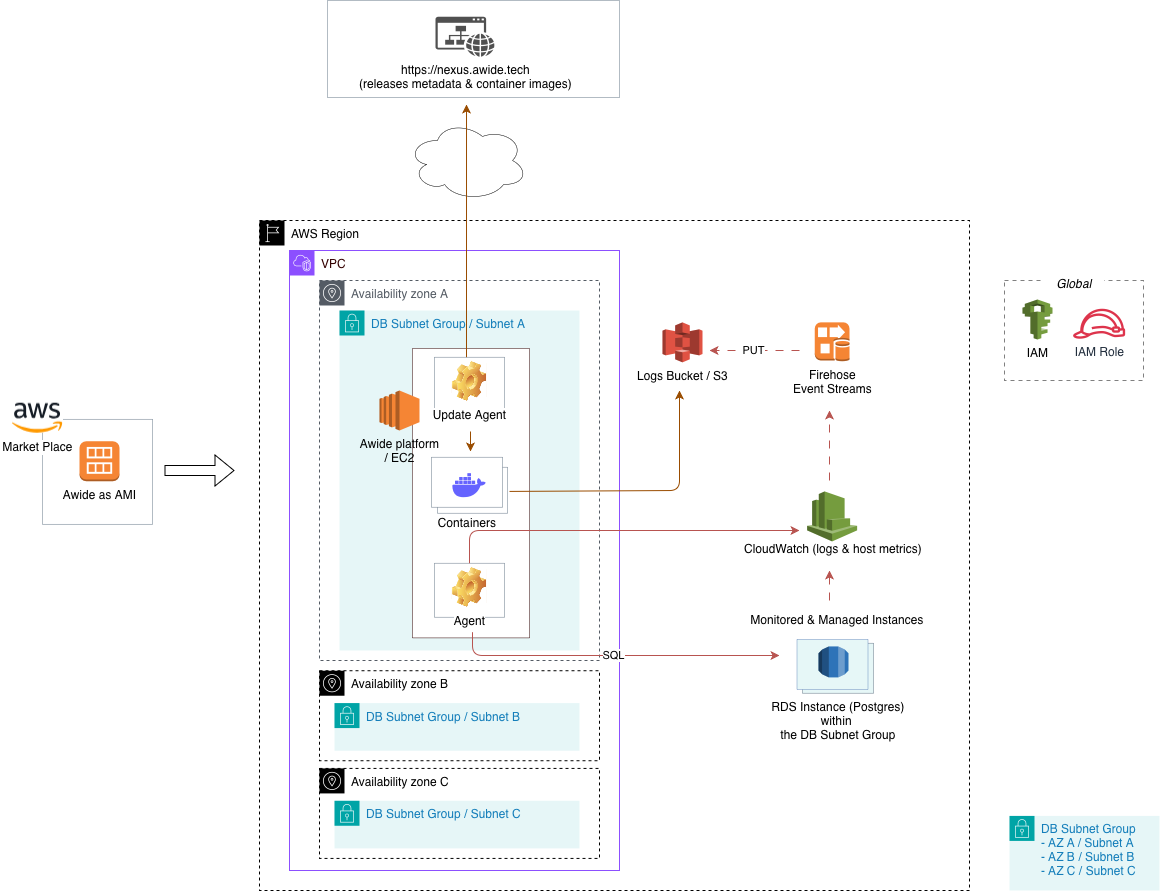
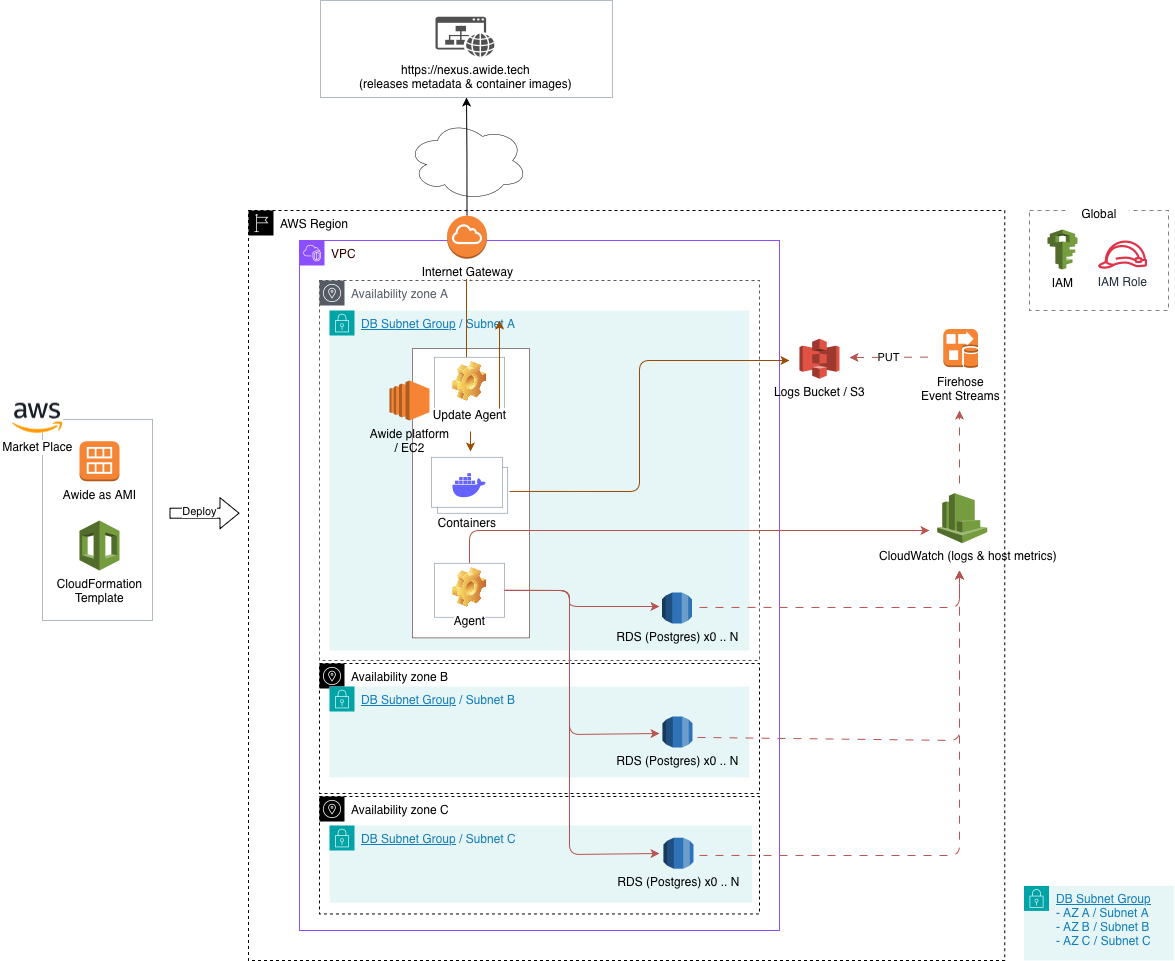
fix doc

diff --git a/suite_deploy/etc/letsencrypt/Documentation.md b/suite_deploy/etc/letsencrypt/Documentation.md
@@ -1,0 +1,116 @@
+## Let's Encrypt Certificate Automation
+
+## Foreword
+
+This guide was written for operators who want certificate management to be predictable, and low-maintenance. The goal is not just to obtain a certificate once, but to keep TLS healthy over time without relying on manual reminders.
+
+The two scripts in this folder reflect that approach. One handles the first-time issuance path, and the other performs routine checks so renewals happen before expiry and updated files are rotated into the running stack. Together, they provide a simple operational baseline that can be adopted quickly and audited easily.
+
+If you are onboarding this into a new environment, use this document as an execution playbook first, then as a reference during maintenance windows and post-incident reviews.
+
+This folder contains two scripts that work together:
+
+- `cert_issue.sh` for first-time certificate issuance.
+- `cert_daily_check.sh` for ongoing renewal checks and certificate refresh.
+
+The overall idea is simple: issue once, then let the daily check renew and rotate cert files automatically before expiry.
+
+## Script 1: `cert_issue.sh` (Initial certificate setup)
+
+Use this script when a certificate does not exist yet for your domain.
+
+### What it does
+
+1. Sets the target domain and email used by Let's Encrypt.
+2. Checks whether host port `80` is already occupied.
+3. If needed, stops the configured container (`reverse-proxy`) so Certbot can bind to port `80` for the HTTP-01 challenge.
+4. Requests a certificate using `certbot certonly --standalone`.
+5. Copies the generated cert and key into:
+	- `/opt/awide/eco/nginx/ssl/certificate.pem`
+	- `/opt/awide/eco/nginx/ssl/key.pem`
+6. Restarts the stopped container on script exit (via `trap`).
+
+### Configurable values
+
+Edit these variables at the top of the script:
+
+- `DOMAIN`
+- `EMAIL`
+- `PORT80_CONTAINER`
+- `CONTAINER_RUNTIME`
+- `CONTAINER_USER`
+
+### Run command
+
+```bash
+sudo bash /path/to/cert_issue.sh
+```
+
+## Script 2: `cert_daily_check.sh` (Renewal and rotation)
+
+Use this script as a scheduled job (cron). It checks certificate lifetime and renews only when needed.
+
+### What it does
+
+1. Reads certificate files from `/etc/letsencrypt/live/<domain>/`.
+2. Checks if the certificate expires within `RENEW_BEFORE_DAYS` (default: 7).
+3. If renewal is needed:
+	- Stops the container using host port `80`.
+	- Runs `certbot renew --non-interactive`.
+	- Copies refreshed cert/key to `/opt/awide/eco/nginx/ssl/`.
+	- Restarts the TLS container.
+4. If renewal is not needed, exits cleanly.
+5. Logs all actions to `/var/log/awide_cert.log`.
+
+### Configurable values
+
+Edit these variables at the top of the script:
+
+- `DOMAIN`
+- `PORT80_CONTAINER`
+- `TARGET_CERT_DIR`
+- `RENEW_BEFORE_DAYS`
+- `CONTAINER_RUNTIME`
+- `CONTAINER_USER`
+
+### Manual test run
+
+```bash
+sudo bash /path/to/cert_daily_check.sh
+```
+
+## Scheduling with cron
+
+Run `cert_setup.sh` once to install Certbot and `cronie`, and enable `crond`:
+
+```bash
+sudo bash /path/to/cert_setup.sh
+```
+
+After that, register the daily renewal check as root:
+
+```bash
+sudo crontab -e
+```
+
+Add a daily run (example: 03:20 UTC):
+
+```cron
+20 3 * * * /usr/bin/bash /path/to/cert_daily_check.sh
+```
+
+Tip: start with a manual run first to confirm paths, domain DNS, and container name are correct.
+
+## Operational notes
+
+- Ensure DNS for `DOMAIN` points to this host.
+- Ensure inbound `80/tcp` and `443/tcp` are allowed at the network/security-group layer.
+- The scripts assume the TLS endpoint serves cert files from `/opt/awide/eco/nginx/ssl`.
+- Both scripts rely on sudo and container runtime access for the configured user.
+
+## Troubleshooting quick checks
+
+- Challenge fails: verify domain DNS and external access to port `80`.
+- Port conflict errors: confirm `PORT80_CONTAINER` is the correct container name.
+- No cert updates in proxy: confirm file copy destination and container restart behavior.
+- Review logs in `/var/log/awide_cert.log` for execution history.

diff --git a/suite_deploy/s3/6/docs/marketplace-configuration.md b/suite_deploy/s3/6/docs/marketplace-configuration.md
@@ -1,0 +1,75 @@
+# AWS Marketplace Product Configuration Guide
+
+## Overview
+
+This guide covers the initial AWS Marketplace launch of Awide PostgreSQL Suite. It is intentionally high level and focuses on the decisions required during CloudFormation deployment.
+
+After the stack reaches `CREATE_COMPLETE`, continue with `configure.md` for RDS connectivity and extended analytics setup.
+
+## What the Deployment Creates
+
+The Marketplace template provisions the base product environment:
+
+- VPC, subnets, internet gateway, and routing
+- Security group for the application host
+- EC2 instance running Awide PostgreSQL Suite
+- Private Route 53 hosted zone and DNS record
+- EC2 IAM role and instance profile
+- S3 bucket for logs
+- Firehose IAM role for log delivery
+
+## Before Launch
+
+Confirm the target AWS account and region, required permissions for VPC, EC2, IAM, Route 53, S3, and CloudFormation, and whether you need custom CIDR ranges, a custom AMI, or a specific Awide Suite version.
+
+## Launch Steps
+
+1. Open the product in AWS Marketplace and subscribe if needed.
+2. Choose **Continue to Configuration**, select the product version, then choose **Continue to Launch**.
+3. Launch through **CloudFormation**.
+4. Enter a stack name and review the template parameters.
+5. Acknowledge IAM resource creation if prompted.
+6. Create the stack and monitor it until `CREATE_COMPLETE`.
+
+## Parameters to Review
+
+Most deployments can use the defaults. Review these values before launch:
+
+- `VpcCidr`, `Subnet1Cidr`, `Subnet2Cidr`, `Subnet3Cidr`: change only if the defaults overlap with your network.
+- `EC2InstanceType`: change if you need different sizing.
+- `AmiId`: change only if you must use a region-specific or approved image.
+- `InternalDomainName` and `AwideServerName`: change if your naming standard requires it.
+- Awide Suite version is fixed in the template and not exposed as a launch parameter.
+
+## Outputs to Record
+
+After deployment, record these CloudFormation outputs:
+
+- `EC2Hostname` for internal access
+- `AwideSuiteEC2PrivateIP` for troubleshooting
+- `EC2User` for host access
+- `AwideSuitePassword` for first login; this value is the EC2 instance ID
+- `S3LogsBucketName` for later analytics setup
+- `FirehoseIAMRoleArn` for later Firehose configuration
+
+## What Happens Next
+
+After the stack is created:
+
+1. Access the EC2 instance using your approved method, such as Session Manager.
+2. Use `AwideSuitePassword` as the initial application password.
+3. Verify that the private hostname resolves inside the VPC.
+4. Continue with `configure.md` to connect the product to the target RDS instance and enable log delivery.
+
+## Out of Scope for the Launch Template
+
+The Marketplace deployment does not complete customer-specific integration work. You still need to configure:
+
+- Connectivity from the EC2 instance to the target RDS PostgreSQL instance
+- RDS log publishing to CloudWatch Logs
+- Firehose delivery and subscription filters for extended analytics
+- Any environment-specific security or routing changes
+
+## Troubleshooting
+
+If deployment fails, first check the CloudFormation event that failed, then confirm the AMI is valid in the selected region, the CIDR ranges do not overlap existing networks, the chosen instance type is available, and the account can create IAM and Route 53 resources.

diff --git a/suite_deploy/s3/6/docs/configure.md b/suite_deploy/s3/6/docs/configure.md
@@ -20,6 +20,9 @@ Table of Contents
 This guide provides step-by-step instructions to configure streaming of RDS PostgreSQL logs from Amazon CloudWatch to an S3 bucket using Amazon Data Firehose. This setup enables Awide PostgreSQL Suite to access RDS logs for extended analytics capabilities. The pipeline consists of three components:
 
 
+For the initial AWS Marketplace product launch and CloudFormation parameter configuration, use `marketplace-configuration.md` in this directory before starting the steps below.
+
+
 > Note:
 This guide assumes that the RDS PostgreSQL instance is already configured to publish logs to CloudWatch Logs. If not, please refer to the official AWS documentation to set up log publishing before proceeding with this guide, or refer to the additional documentation section below for more details.
 
